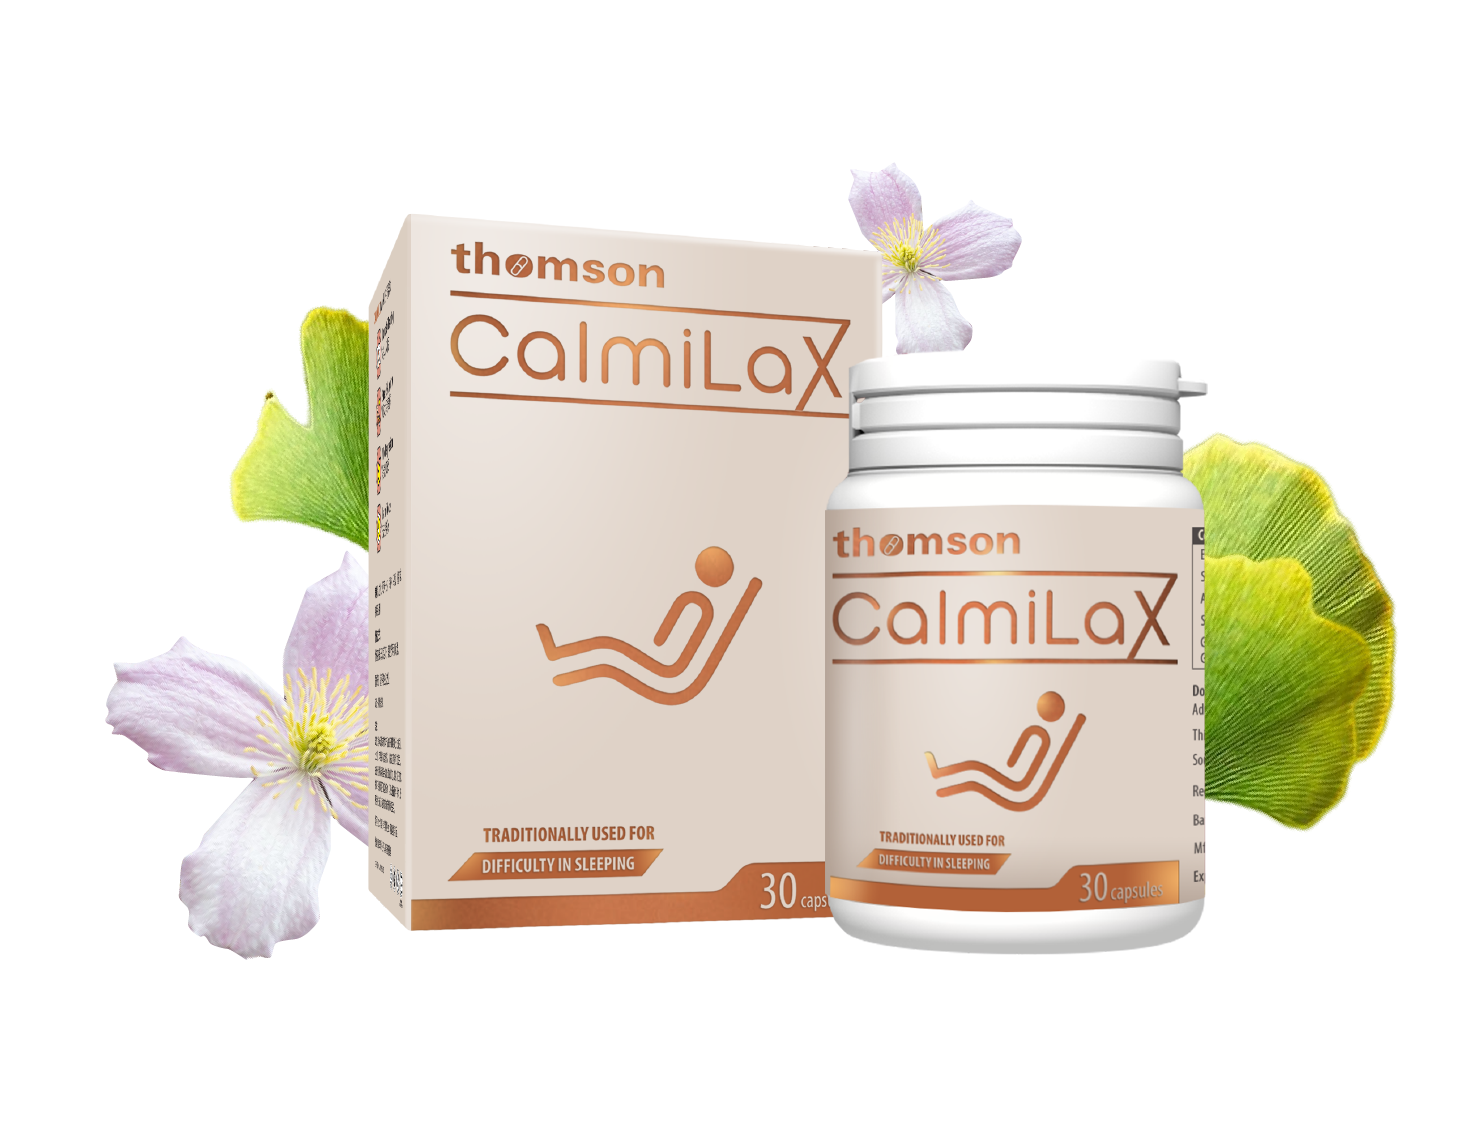
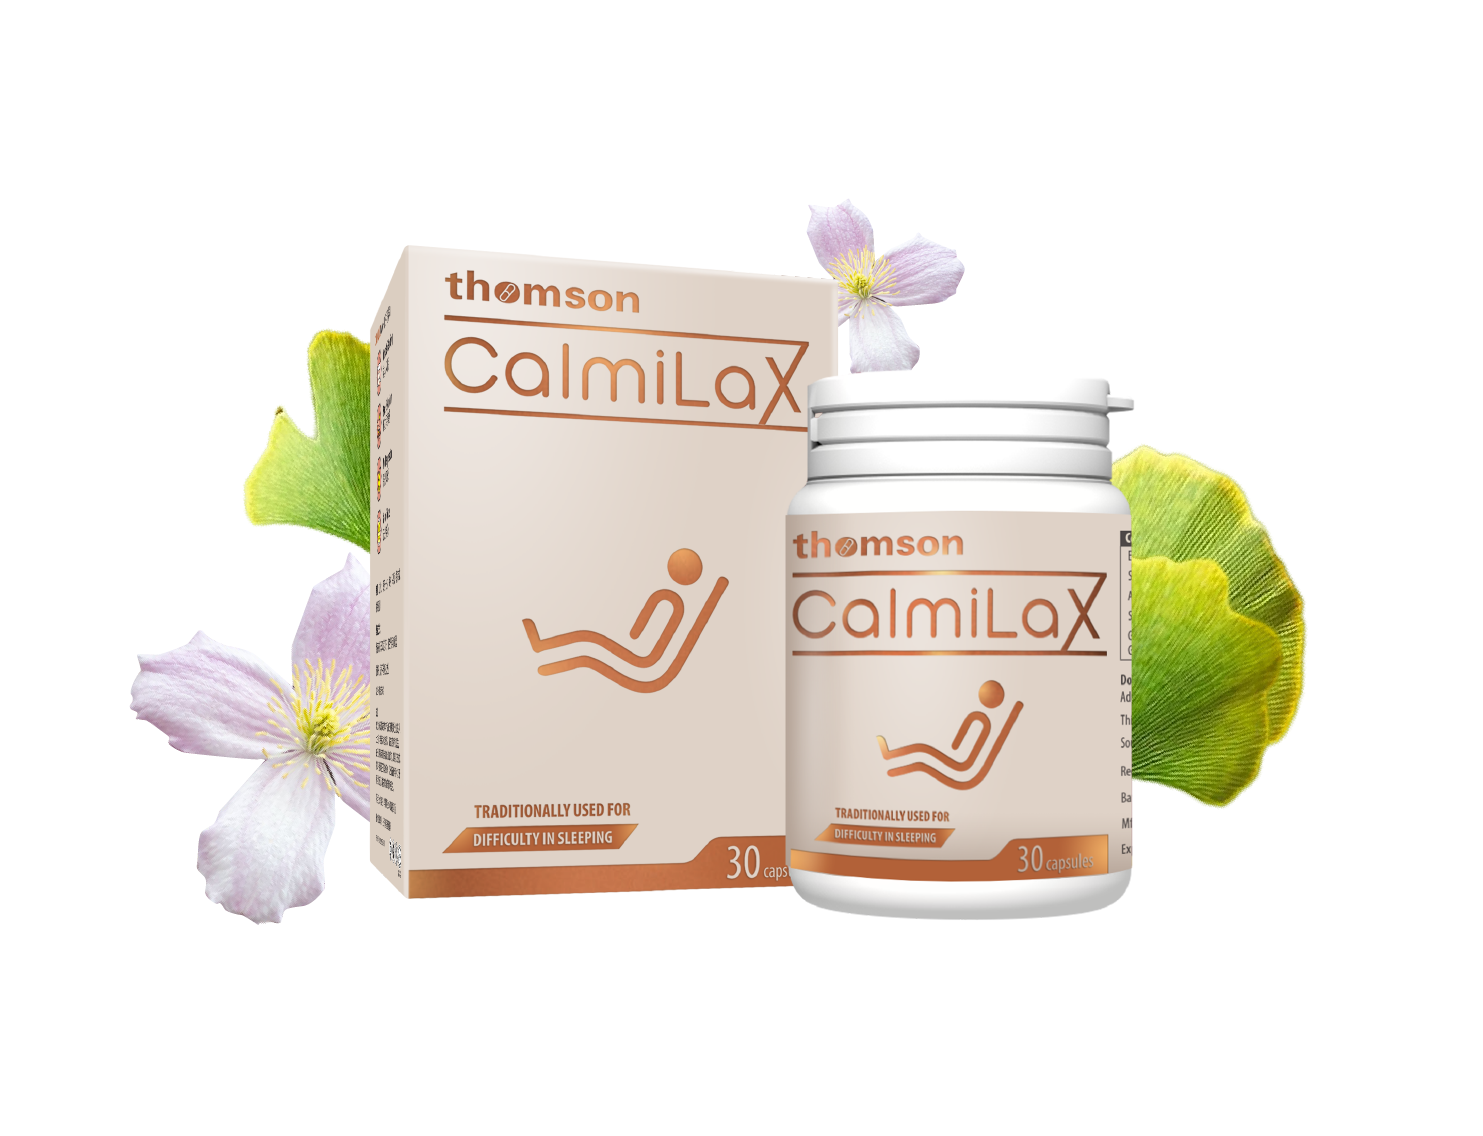
fixed all positionings

Changed region(s): [[0.062, 0.154, 0.9616, 0.8627]]

diff --git a/app/components/ProductSlider.js b/app/components/ProductSlider.js
@@ -160,7 +160,7 @@ export default function ProductSlider() {
           // In animation for the next scene (sequential element animations)
           tl.to(nextElement, { opacity: 1, duration: 1 }) // Fade in the container
             .from(nextElement.querySelector(".bg-image"), {
-              scale: 2,
+              autoAlpha: 0,
               // x: direction * 100 + "%",
               duration: 1,
               ease: "power2.out",
@@ -185,16 +185,18 @@ export default function ProductSlider() {
               "0.5",
             )
 
+            .from(nextElement.querySelector(".product-circular"), {})
+
             // Product image fades in with slight delay
             .from(
               nextElement.querySelector(".human-image"),
               {
-                y: -direction * -100 + "%",
+                // y: -direction * -100 + "%",
                 opacity: 0,
                 duration: 1,
                 ease: "power2.out",
               },
-              ">-1",
+              ">-2.0",
             ) // Human image slides in from opposite side
             .from(
               nextElement.querySelector(".text-container"),
@@ -231,7 +233,7 @@ export default function ProductSlider() {
             <div
               key={scene.id}
               ref={(el) => (sceneRefs.current[index] = el)} // Store each scene ref
-              className="absolute top-0 flex h-full w-full justify-center py-10 opacity-0 md:py-14 xl:py-20" // Initially hidden
+              className="absolute top-0 flex h-full w-full justify-center opacity-0" // Initially hidden
             >
               <Image
                 alt="stage-ring"
@@ -255,7 +257,7 @@ export default function ProductSlider() {
 
               {/* Product Banner */}
               <Image
-                className="product-banner absolute z-20 mr-[60vw] mt-[40vh] md:block lg:mr-[38vw]"
+                className="product-banner absolute left-[2%] top-[50%] z-20 md:left-[20%] md:block"
                 width={300}
                 height={300}
                 alt="product-banner"
@@ -283,7 +285,7 @@ export default function ProductSlider() {
                 alt="product"
                 width={800}
                 height={800}
-                className="product-image z-20 w-[70vw] max-w-[500px] object-contain"
+                className="product-image z-20 w-[70vw] max-w-[600px] object-contain"
               />
               {/* Human Image */}
               <Image
@@ -303,7 +305,7 @@ export default function ProductSlider() {
               {/* Circular */}
 
               <Image
-                className="product-circular absolute z-20 ml-[32vw] mt-[22vh] sm:mt-[10vh] md:block"
+                className="product-circular absolute right-[18%] top-[28%] z-20 sm:right-[30%] sm:top-[20%] md:block"
                 src={scene.images.circular}
                 alt="circular"
                 width={200}
@@ -314,7 +316,7 @@ export default function ProductSlider() {
               />
 
               {/* Text Container */}
-              <div className="text-container absolute left-[5%] z-20 w-[30%]">
+              <div className="text-container absolute left-[5%] top-[10%] z-20 w-[30%]">
                 <h1 className="text-2xl text-tsdarkgreen xl:text-4xl">
                   {scene.title}
                 </h1>

diff --git a/app/page.js b/app/page.js
@@ -161,7 +161,7 @@ export default function Home() {
           />
         </div>
       </section> */}
-      <section className="product-section h-screen">
+      <section className="product-section h-[700px] sm:h-[900px]">
         <ProductSlider />
       </section>
       <section className="about-us flex min-h-[90vh] justify-end bg-about-us-pattern bg-cover px-5 py-10 lg:py-20">
